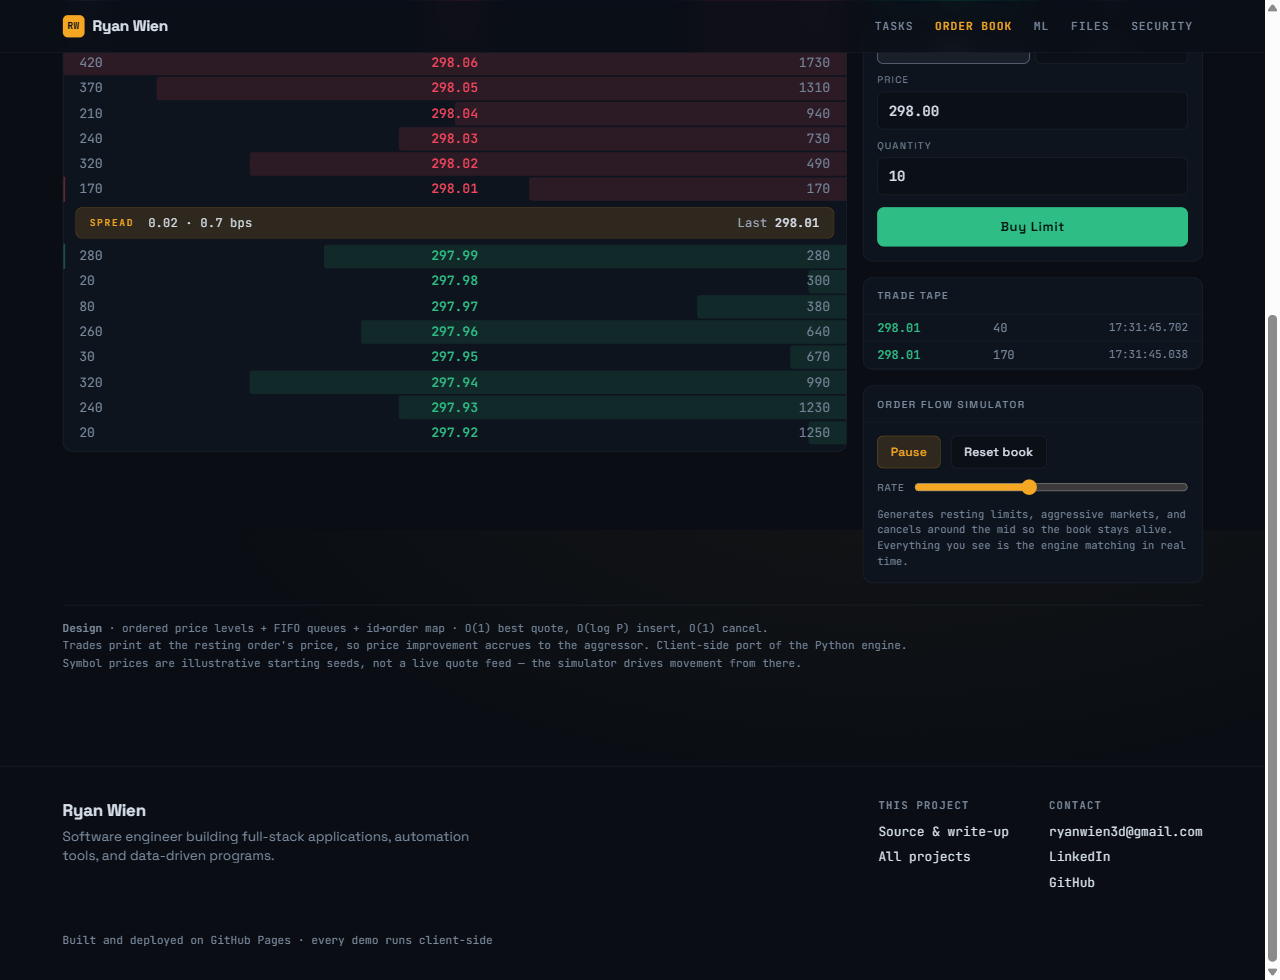
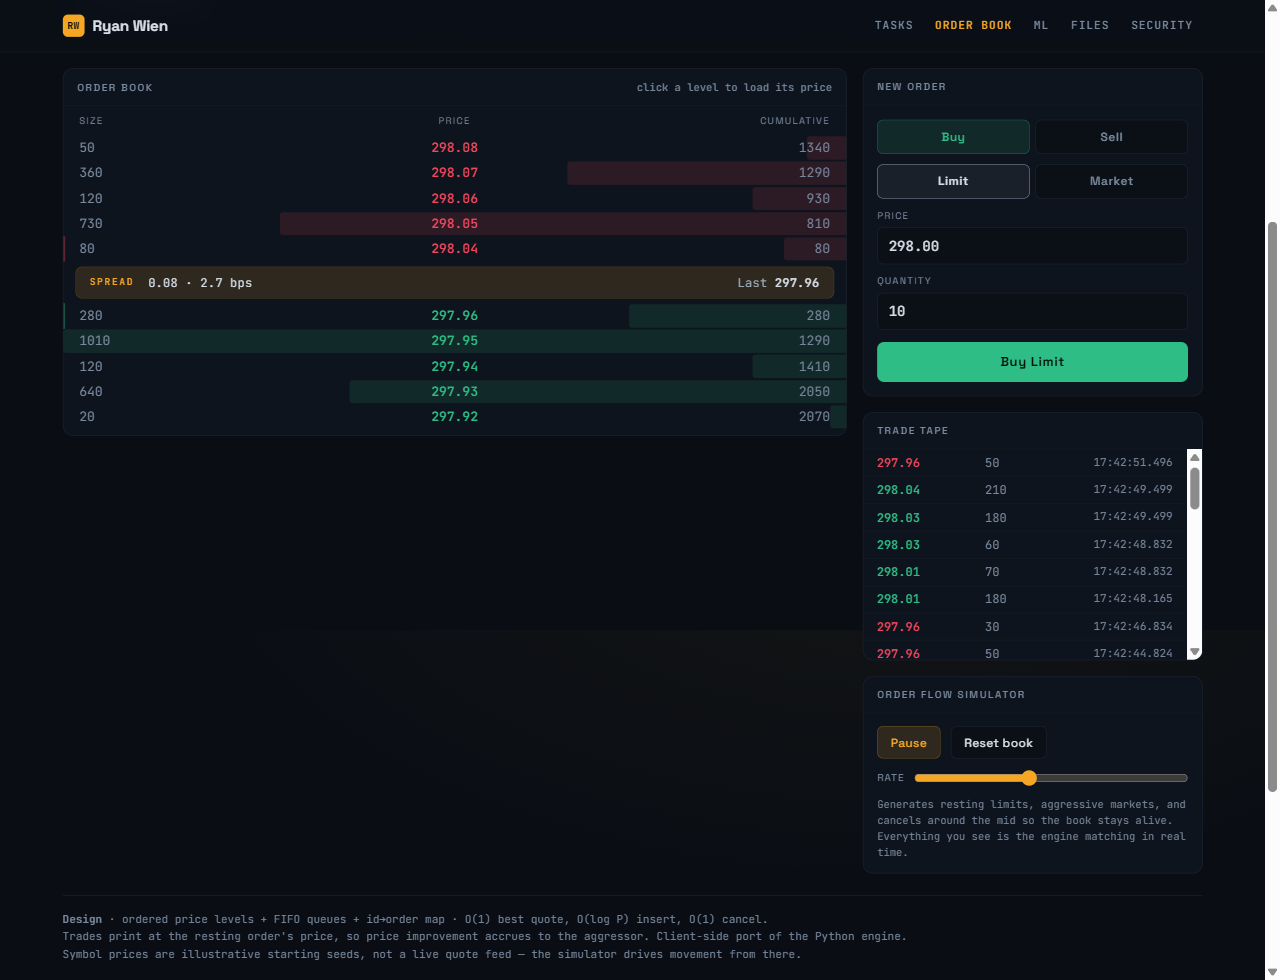
Give the how-it-works cards room to breathe
The cards sat flush against the demo below them, so the section read as
one crowded block. Add a bottom margin matching the label's top margin
so the band is symmetrical. Adjacent-sibling margins collapse, so the
four demos whose next element already has a top margin are unaffected.

Also re-take the order book screenshot, which was cropping the top of
the ladder and trailing into the footer.

diff --git a/site.css b/site.css
@@ -111,7 +111,11 @@
   display:flex; justify-content:space-between; align-items:baseline; gap:1rem;
 }
 
-.site-how{display:grid; grid-template-columns:repeat(3,1fr); gap:.75rem}
+/* Bottom margin mirrors the label's top margin, so the cards sit in their own
+   band instead of crowding whatever demo follows. Adjacent-sibling margins
+   collapse, so a following element with its own top margin won't double up. */
+.site-how{display:grid; grid-template-columns:repeat(3,1fr); gap:.75rem;
+  margin-bottom:2.2rem}
 .site-card{
   background:var(--site-surface); border:1px solid var(--site-line);
   border-radius:10px; padding:1.05rem 1.15rem;
